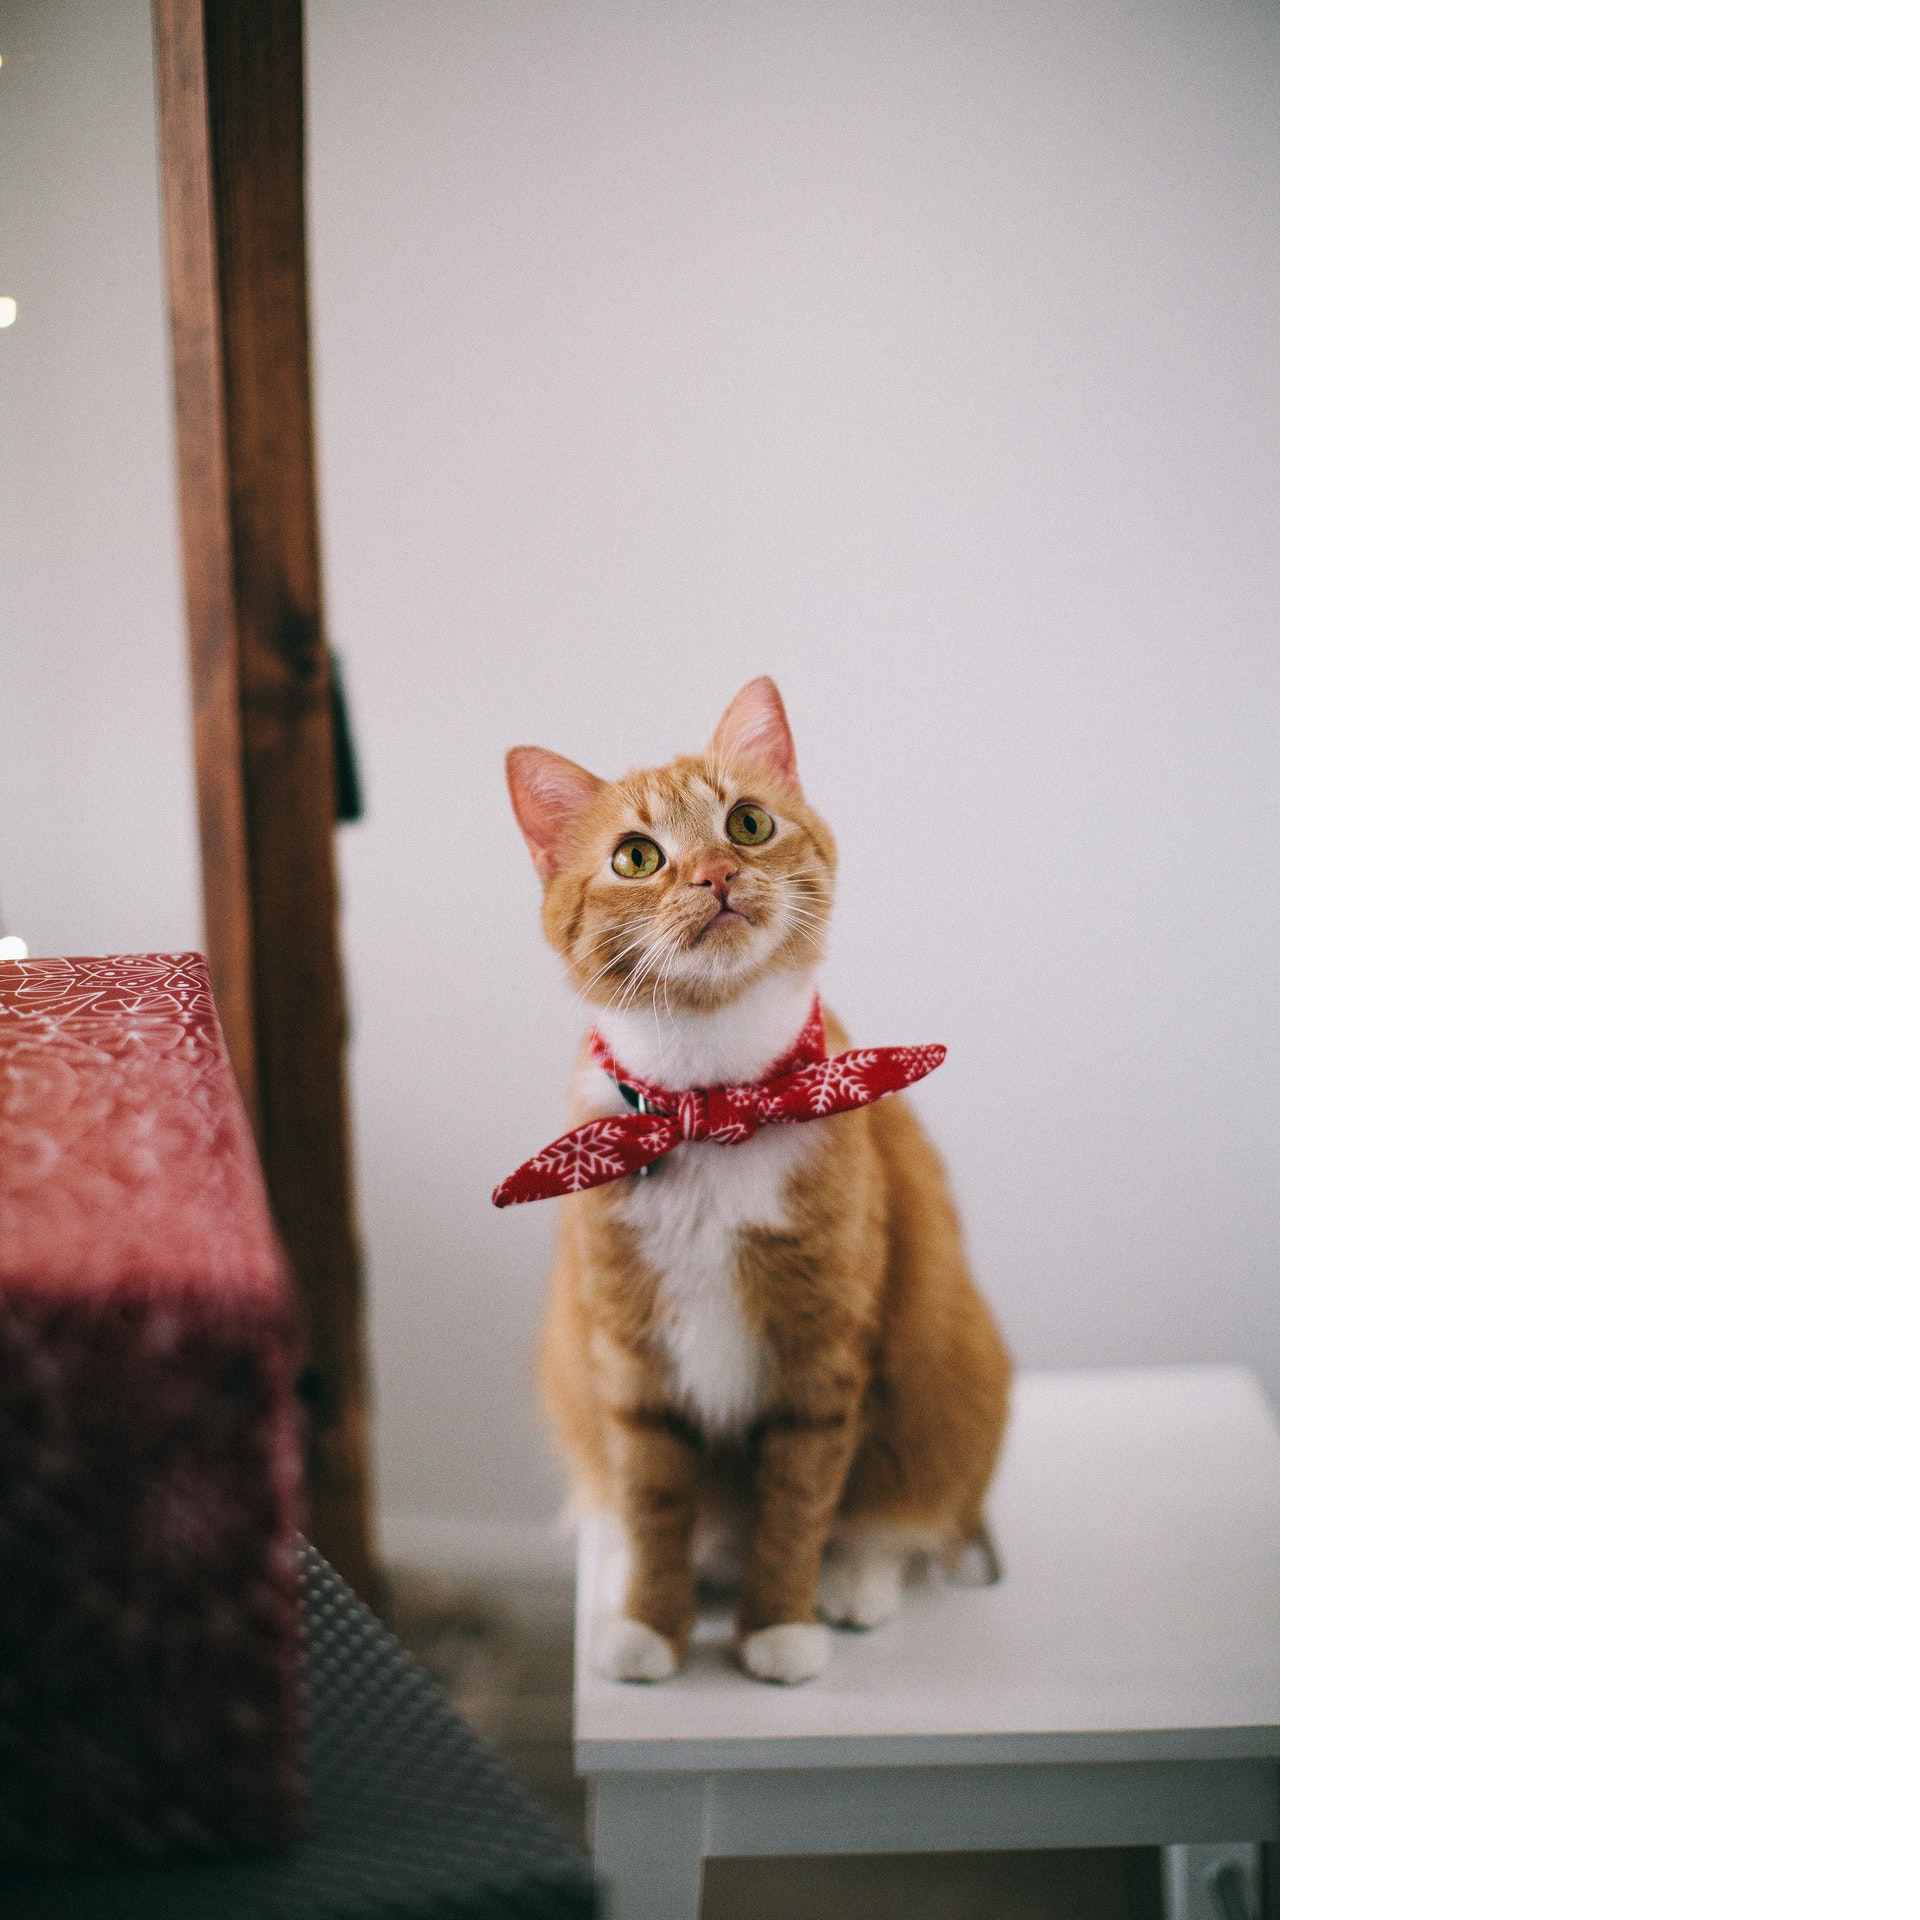
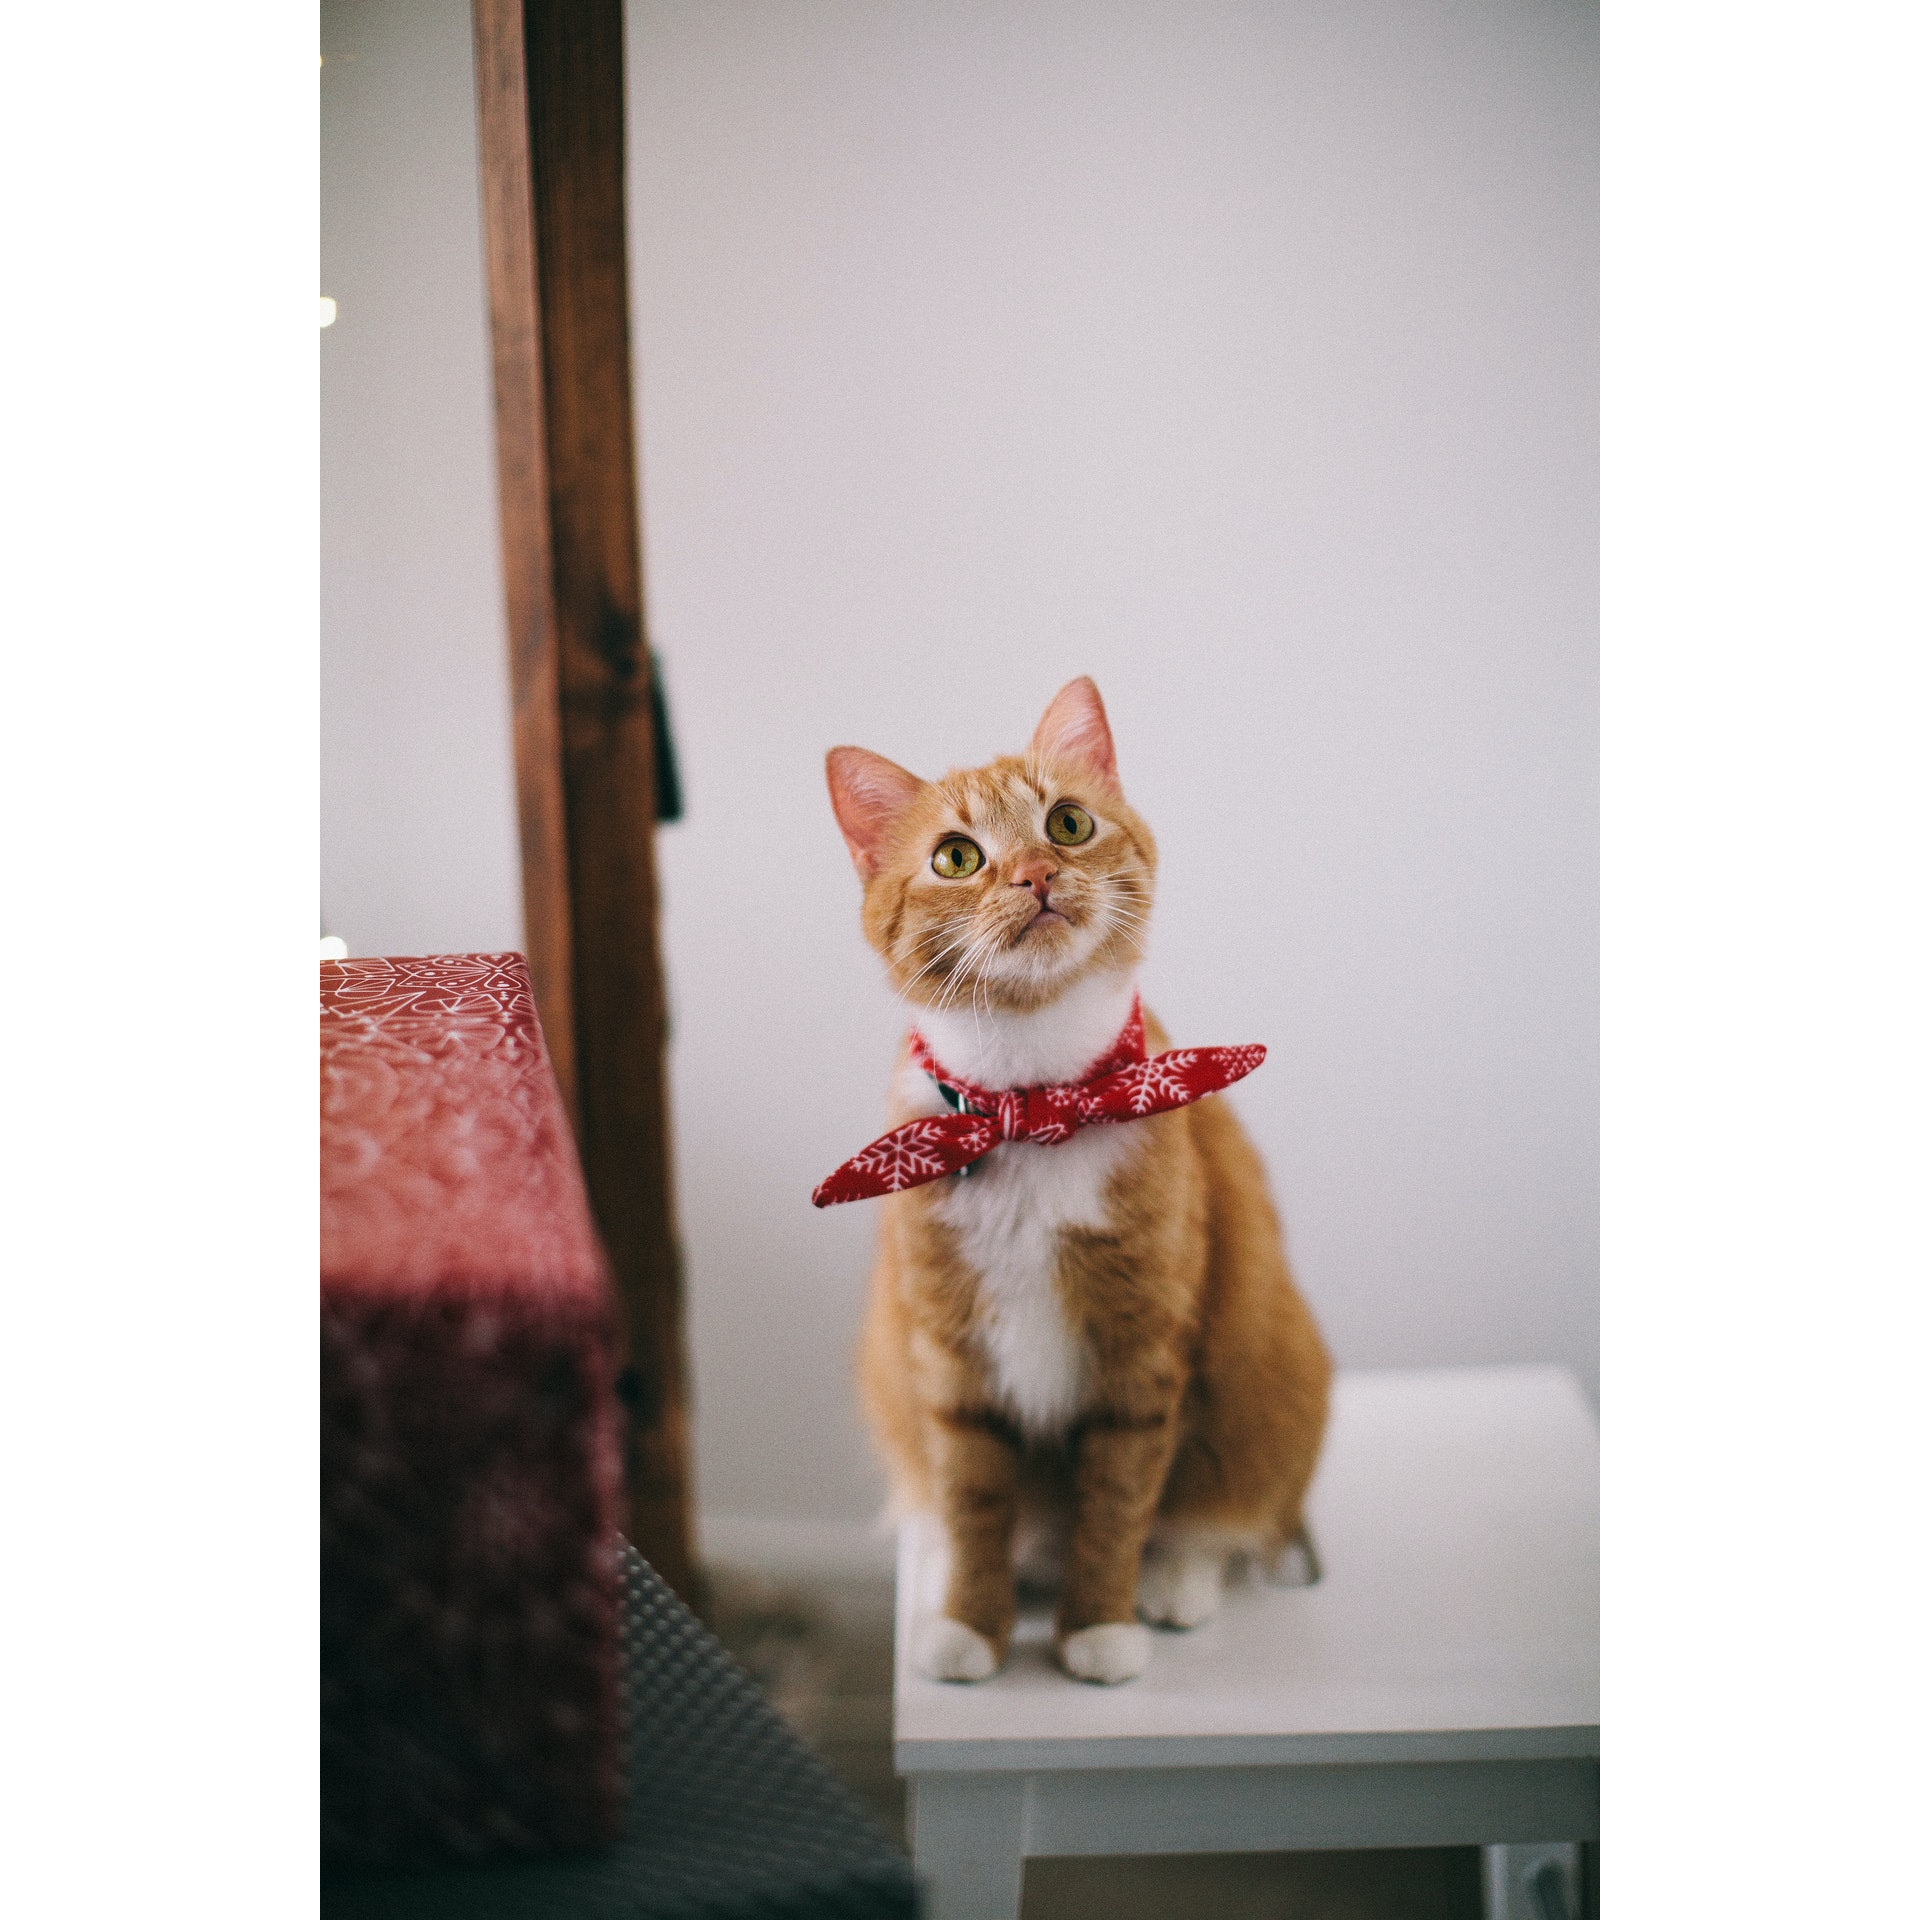
images now saving at centre

diff --git a/square.py b/square.py
@@ -25,18 +25,19 @@ for image in to_convert:
     #   Biggest side's coords are 0 so it stays in line with the new canvas
     #   new side's coords are (big_side-small_side)/2, gets the difference and splits it so the image is at the middle
 
+    # Calculation here inpendent of the stuff.
+    special_coord = int((big_side-small_side)/2)
+
     # If the x side is the biggest
     if big_side == x:
-        pass
+        new_image.paste(old_img, (0, special_coord))
 
     elif big_side == y:
-        pass
+        new_image.paste(old_img, (special_coord, 0))
 
     else:
         print('Something has gone really wrong')
         continue
-
-    new_image.paste(old_img, (x,y))
 
     # Get rid of extension
     # Allows for filenames to have . in them
@@ -47,4 +48,6 @@ for image in to_convert:
     # Save with the new extension
     new_image.save(join(OUTPUT_PATH, new_filename + '.png'))
 
+    # Close those boys up
+    new_image.close()
     old_img.close()
